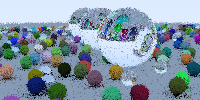
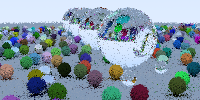
Entrega Final

diff --git a/Ray Tracing/src/main.cpp b/Ray Tracing/src/main.cpp
@@ -58,6 +58,7 @@ hitable *random_scene() {
 	list[i++] = new sphere(vec3(0, 1, 0), 1.0, new dielectric(1.5));
 	list[i++] = new sphere(vec3(-4, 1, 0), 1.0, new dielectric(1.5));
 	list[i++] = new sphere(vec3(4, 1, 0), 1.0, new dielectric(1.5));
+	list[i++] = new sphere(vec3(-8, 1, 0), 1.0, new dielectric(1.5));
 
 	return new hitable_list(list, i);
 }
@@ -65,9 +66,9 @@ hitable *random_scene() {
 
 int main() {
 
-	int nx = 200;
-	int ny = 100;
-	int ns = 2;
+	int nx = 1200;
+	int ny = 800;
+	int ns = 100;
 
 	//Crar vector
 	std::vector<unsigned char> pixels;
